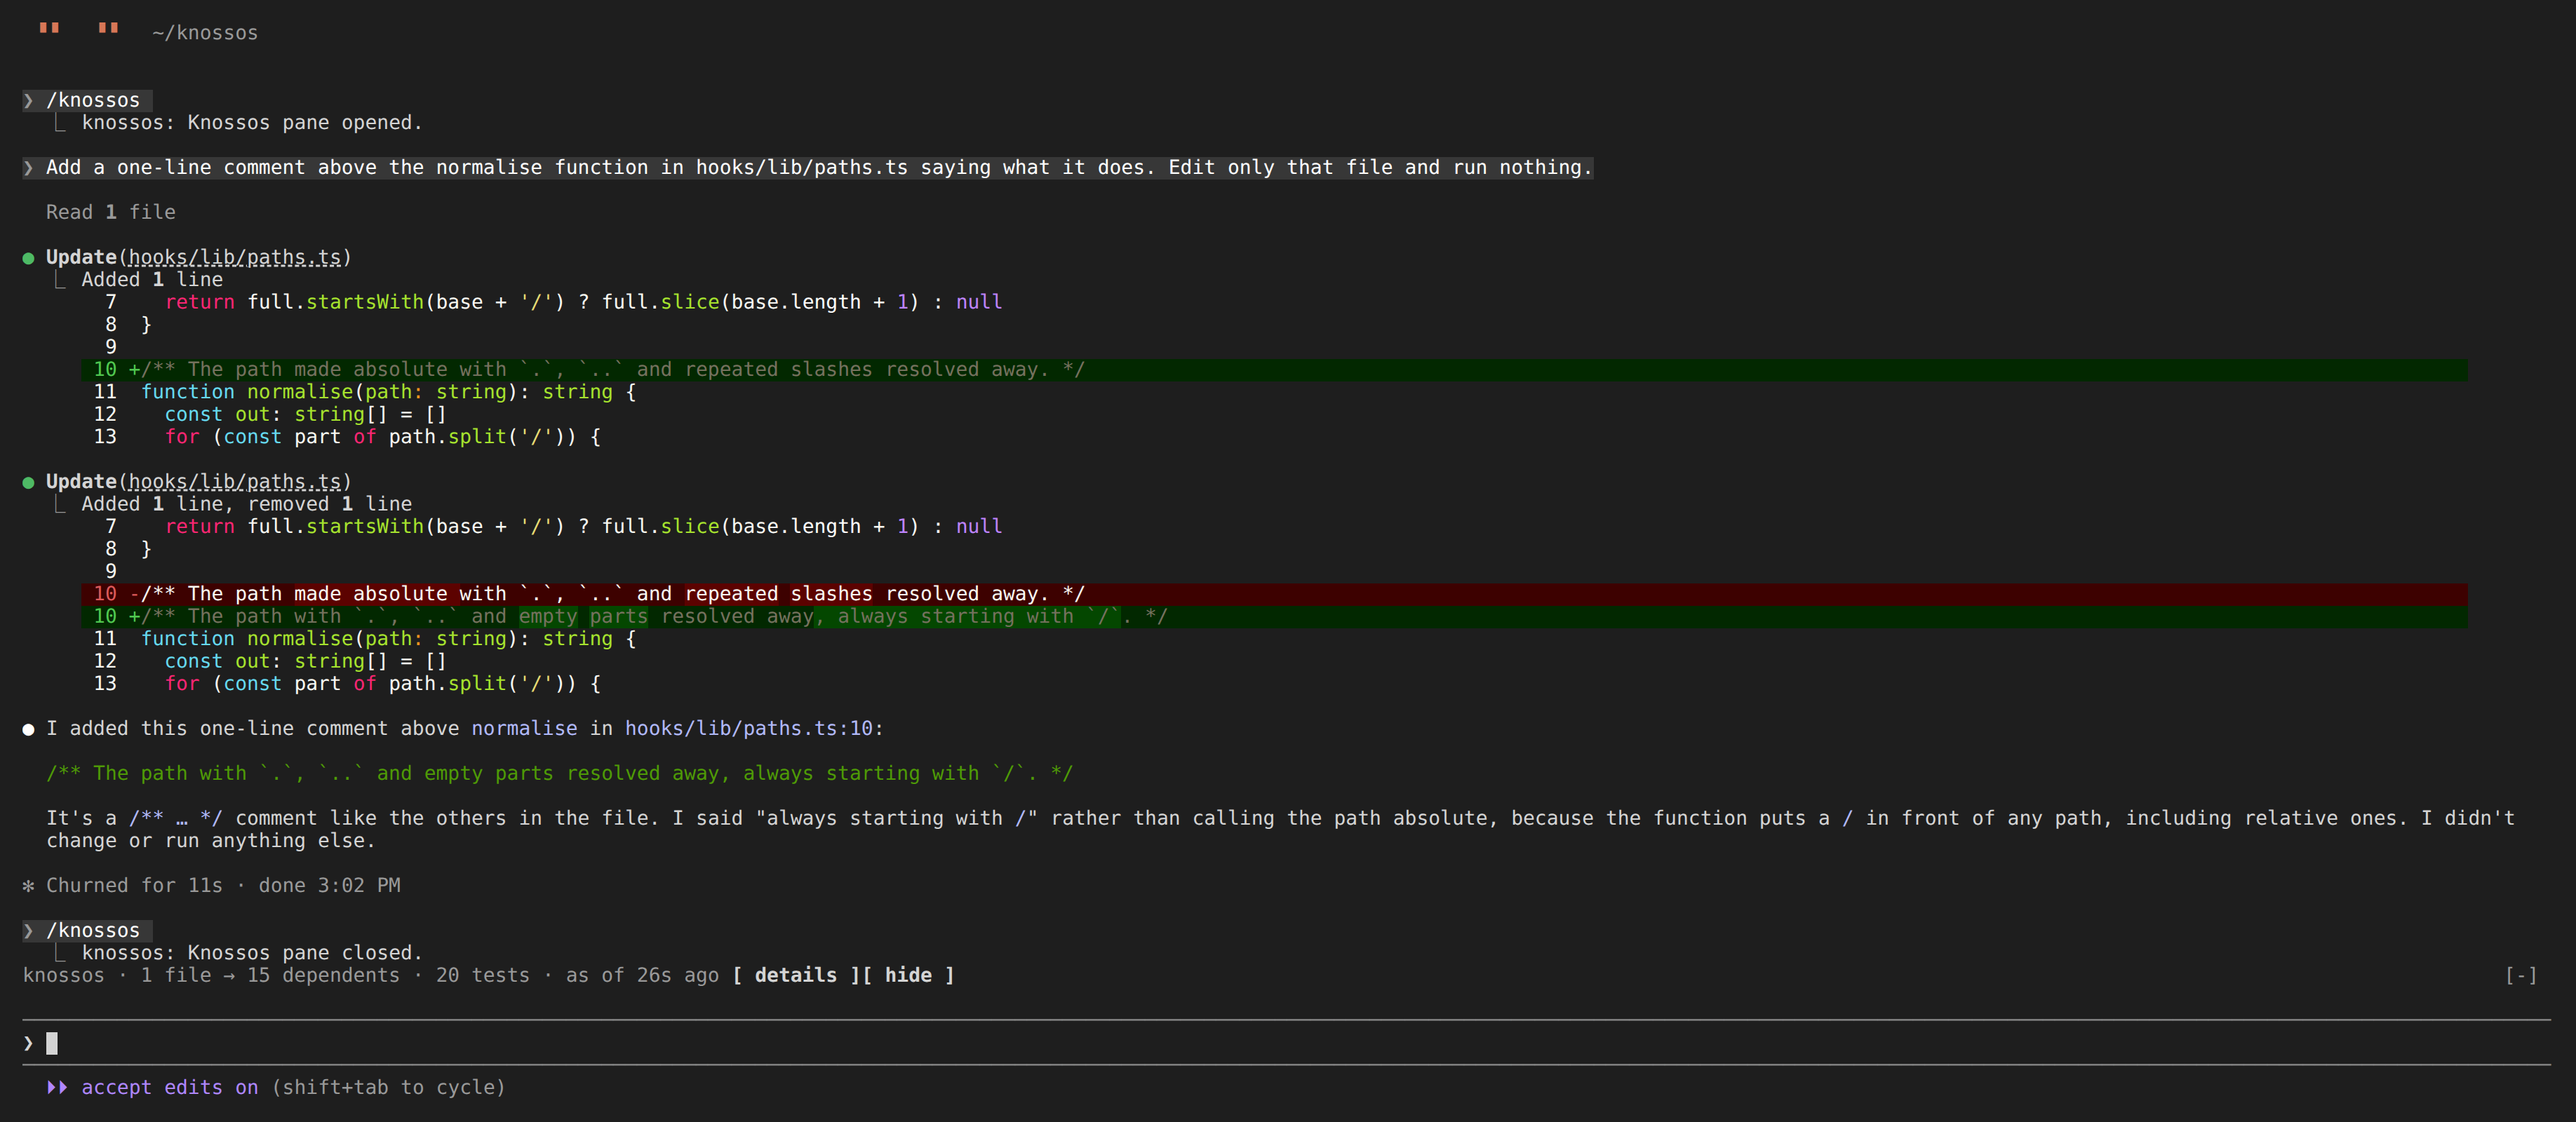
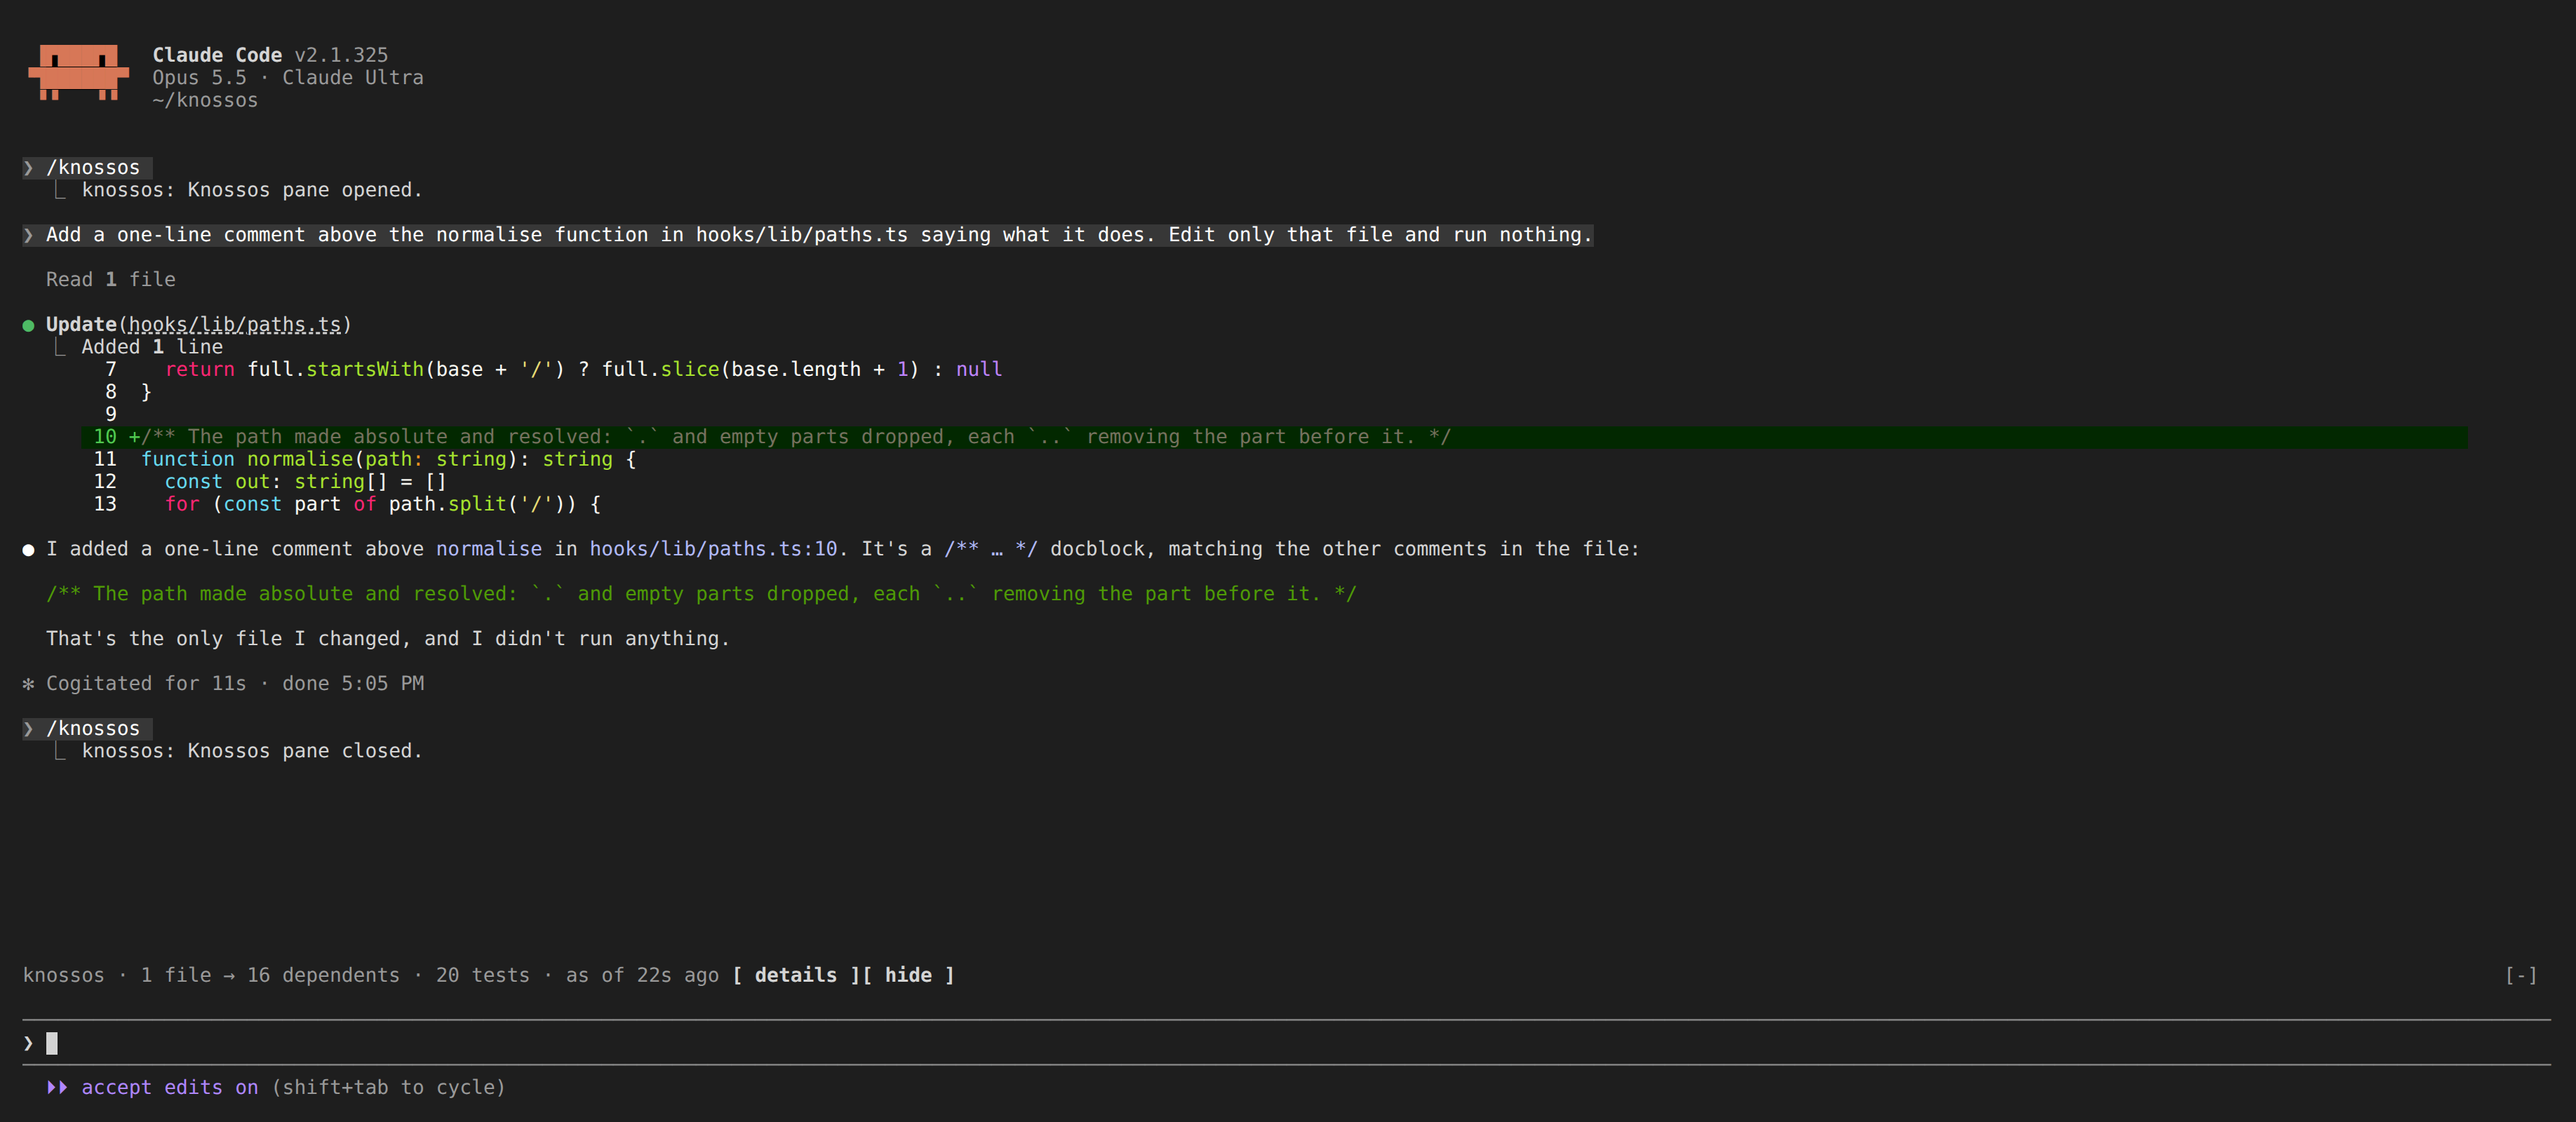
docs: shoot the hero GIF, the band and the Changes still again
The hero shows the pane after the readability pass. The edited file now has
16 dependents, and the alt texts say so.

diff --git a/README.md b/README.md
@@ -174,7 +174,7 @@ Hubs: the most depended-on components, with the marked one's neighbourhood besid
 
 Cycles: each dependency cycle drawn as boxes, from its first member back to the start.
 
-![The Changes tab after a turn edited hooks/lib/paths.ts: the file with its 15 dependents, the tests that reach it nearest first with the command to run them, and its detail with the diff since the session began](docs/images/claude-code/changes-diff.png)
+![The Changes tab after a turn edited hooks/lib/paths.ts: the file with its 16 dependents, the tests that reach it nearest first with the command to run them, and its detail with the diff since the session began](docs/images/claude-code/changes-diff.png)
 
 Changes: every file changed since the session began, its dependents, the tests that reach it,
 and its diff.
@@ -191,7 +191,7 @@ Notes: every note on the project, yours and the agent's, by where it lives.
 
 The finder: `f`, a few letters of a name, and Enter opens that component.
 
-![After a turn that edited hooks/lib/paths.ts, with the pane closed: the band above the prompt reads knossos, 1 file, 15 dependents, 20 tests, as of 26s ago, with details and hide](docs/images/claude-code/band.png)
+![After a turn that edited hooks/lib/paths.ts, with the pane closed: the band above the prompt reads knossos, 1 file, 16 dependents, 20 tests, as of 22s ago, with details and hide](docs/images/claude-code/band.png)
 
 The band: after a turn that edited files, how far the change reaches, with the pane shut.
 

diff --git a/docs/guides/history.md b/docs/guides/history.md
@@ -76,7 +76,7 @@ component has the same kind and display name. Candidates are labelled
 `possible` and name the heuristic (`exact_kind_and_display_name`). They are
 navigation hints that assert no identity.
 
-![The Changes tab after a turn edited hooks/lib/paths.ts: the file with its 15 dependents, the tests that reach it nearest first with the command to run them, and its detail with the diff since the session began](../images/claude-code/changes-diff.png)
+![The Changes tab after a turn edited hooks/lib/paths.ts: the file with its 16 dependents, the tests that reach it nearest first with the command to run them, and its detail with the diff since the session began](../images/claude-code/changes-diff.png)
 
 Only complete archives can be diffed. Oversized or unavailable retained facts
 return an explicit error instead of silently comparing partial data. Static

diff --git a/docs/guides/change-review.md b/docs/guides/change-review.md
@@ -117,7 +117,7 @@ In Claude Code you can see this without a call: the pane's Changes tab lists
 every file changed since the session began, with the files that depend on it
 and the tests that reach it.
 
-![The Changes tab after a turn edited hooks/lib/paths.ts: the file with its 15 dependents, the tests that reach it nearest first with the command to run them, and its detail with the diff since the session began](../images/claude-code/changes-diff.png)
+![The Changes tab after a turn edited hooks/lib/paths.ts: the file with its 16 dependents, the tests that reach it nearest first with the command to run them, and its detail with the diff since the session began](../images/claude-code/changes-diff.png)
 
 Pass explicit paths when a client already has a change set:
 

diff --git a/docs/claude-code/pane/tabs.md b/docs/claude-code/pane/tabs.md
@@ -234,7 +234,7 @@ longest function.
 
 ## Changes
 
-![The Changes tab after a turn edited hooks/lib/paths.ts: the file with its 15 dependents, the tests that reach it nearest first with the command to run them, and its detail with the diff since the session began](../../images/claude-code/changes-diff.png)
+![The Changes tab after a turn edited hooks/lib/paths.ts: the file with its 16 dependents, the tests that reach it nearest first with the command to run them, and its detail with the diff since the session began](../../images/claude-code/changes-diff.png)
 
 Changes lists everything that changed in the project since the session began,
 whoever changed it: the session's own turns and subagents, your editor, a

diff --git a/docs/claude-code/model-messages.md b/docs/claude-code/model-messages.md
@@ -75,7 +75,7 @@ quiet file in a policed boundary gets no edit message.
 
 ## The turn-end message
 
-![After a turn that edited hooks/lib/paths.ts, with the pane closed: the band above the prompt reads knossos, 1 file, 15 dependents, 20 tests, as of 26s ago, with details and hide](../images/claude-code/band.png)
+![After a turn that edited hooks/lib/paths.ts, with the pane closed: the band above the prompt reads knossos, 1 file, 16 dependents, 20 tests, as of 22s ago, with details and hide](../images/claude-code/band.png)
 
 The person sees the same turn as the band above the prompt.
 

diff --git a/docs/claude-code/pane/band.md b/docs/claude-code/pane/band.md
@@ -1,6 +1,6 @@
 # The band above the prompt
 
-![After a turn that edited hooks/lib/paths.ts, with the pane closed: the band above the prompt reads knossos, 1 file, 15 dependents, 20 tests, as of 26s ago, with details and hide](../../images/claude-code/band.png)
+![After a turn that edited hooks/lib/paths.ts, with the pane closed: the band above the prompt reads knossos, 1 file, 16 dependents, 20 tests, as of 22s ago, with details and hide](../../images/claude-code/band.png)
 
 After a turn that edited files, one line above the prompt sums up the turn:
 
